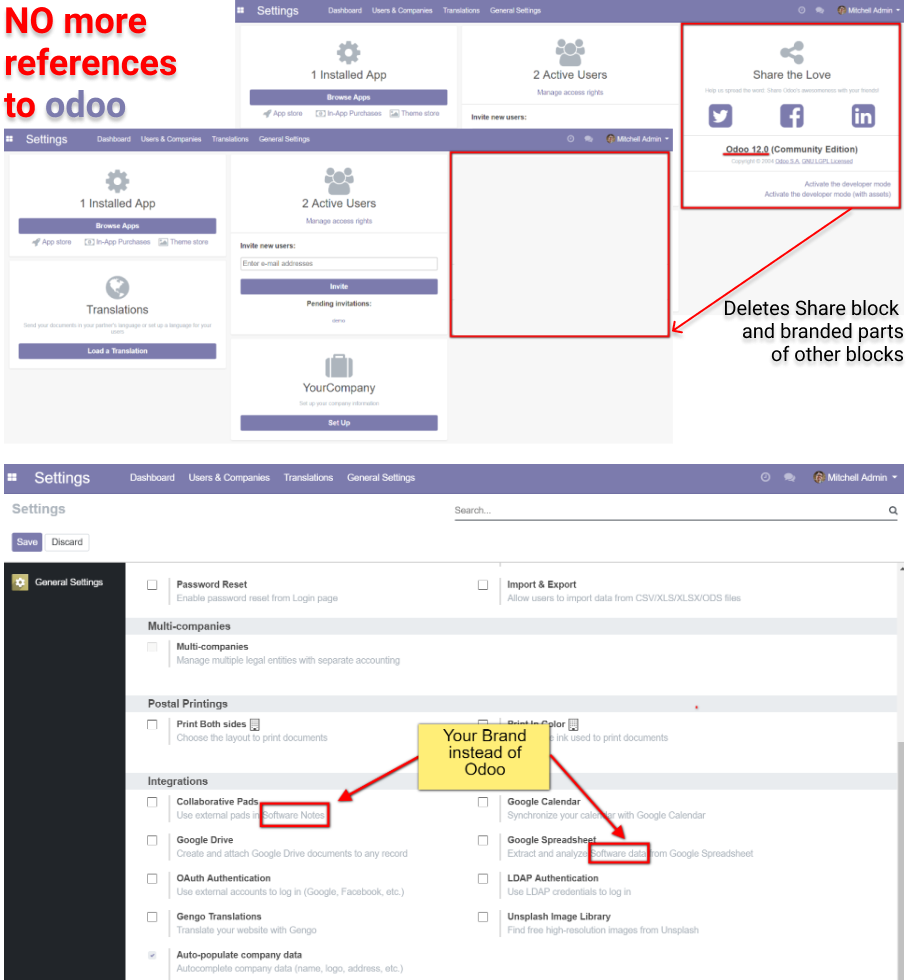
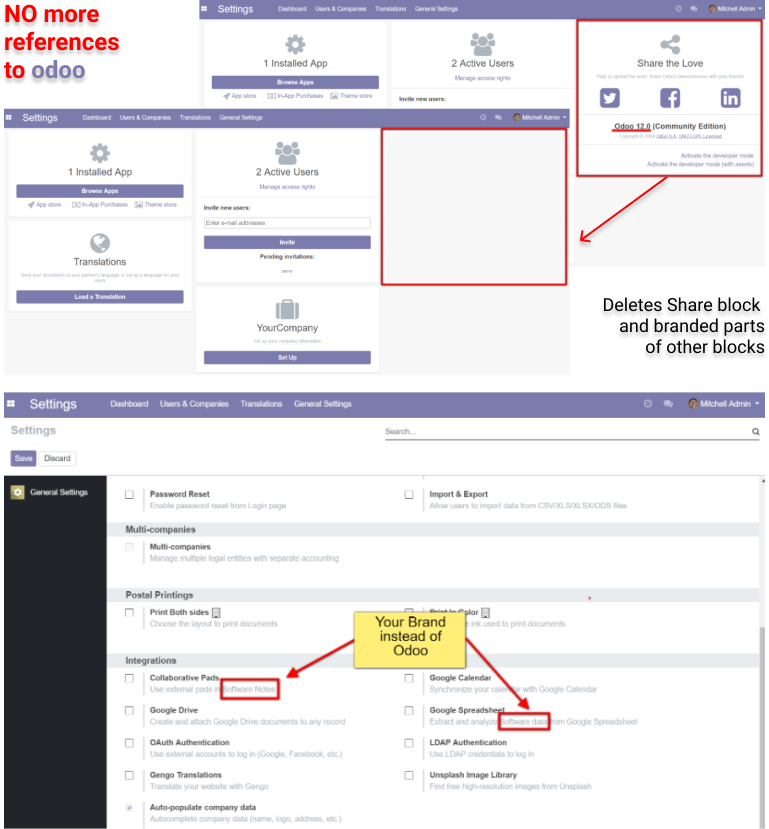
:cherries: module presentation improved

diff --git a/web_debranding/static/description/index.html b/web_debranding/static/description/index.html
@@ -9,12 +9,12 @@
 <section class="oe_container">
     <div class="oe_row oe_spaced">
         <div class="oe_span12">
-            <p>
+            <h3 class="oe_slogan">
                 Build and enhance your Brand by removing references to <a href="https://www.odoo.com/"> odoo.com </a> and customizing company logo, favicon, page title, etc.
-            </p>
+            </h3>
         </div>
-        <div class="oe_row_img oe_centered">
-            <img class="oe_demo oe_picture oe_screenshot" src="debranding12.png"/>
+        <div class="oe_row_img oe_centered" align="center">
+            <img class="oe_demo oe_screenshot" src="debranding12.png"/>
         </div>
     </div>
 </section>
@@ -53,6 +53,10 @@
                 <li> <i>(feature is not required in 12.0+ versions)</i></li>
                 <li> <i>(feature is not required in 12.0+ versions)</i></li>
             </ol>
+            </p>
+            <p class="oe_mt32">
+                <i>The module has dependencies related to access rights: Apps option that is disables for User, will be hidden after installing the module.
+                Only Super User can enable them. For example, in the menu Inventory -> Settings some options disappear. You can return them only through the Super User.</i>
             </p>
         </div>
     </div>

diff --git a/web_debranding/doc/index.rst b/web_debranding/doc/index.rst
@@ -16,7 +16,7 @@ By default the module replaces ``Odoo`` to ``Software``.
 * Open ``[[ General Settings ]] >> Technical >> Parameters >> System Parameters`` and modify:
 
   * ``web_debranding.new_title`` (put space in *Value field* if you don't need Brand in Title)
-  * ``eb_debranding.new_name`` (your Brand)
+  * ``web_debranding.new_name`` (your Brand)
   * ``web_debranding.new_website`` (your website)
   * ``web_debranding.new_documentation_website`` (website with documentation instead of official one)
   * ``web_debranding.favicon_url``
@@ -31,8 +31,8 @@ Further debranding
 
 * Open *addons/mail/data/mail_data.xml* and edit Template **Notification Email** - delete ``using Odoo``
 * Open *addons/website_livechat/data/website_livechat_data.xml* and edit in ``im_livechat_channel_data_website`` record *YourWebsiteWithOdoo.com* string
-* Install ``website_debranding`` `module <https://apps.odoo.com/apps/modules/10.0/website_debranding/>`__ if module *Website Builder* has been already installed in your system
-* Install ``pos_debranding`` `module <https://apps.odoo.com/apps/modules/10.0/pos_debranding/>`__ if module `POS` has been already installed in your system
+* Install `website_debranding <https://apps.odoo.com/apps/modules/10.0/website_debranding/>`__ if module *Website Builder* has been already installed in your system
+* Install `pos_debranding <https://apps.odoo.com/apps/modules/10.0/pos_debranding/>`__ if module `POS` has been already installed in your system
 * Delete *Odoo.com Accounts* record at *Settings\Users & Companies\OAuth Providers* if module ``OAuth2 Authentication`` has been already installed in your system
 * To debrand ``/web/database/manager``:
 
